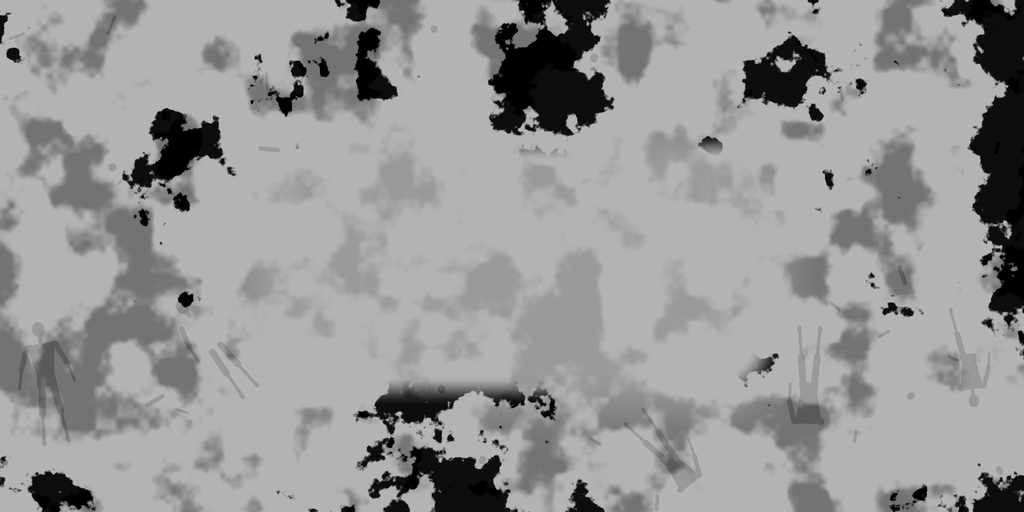
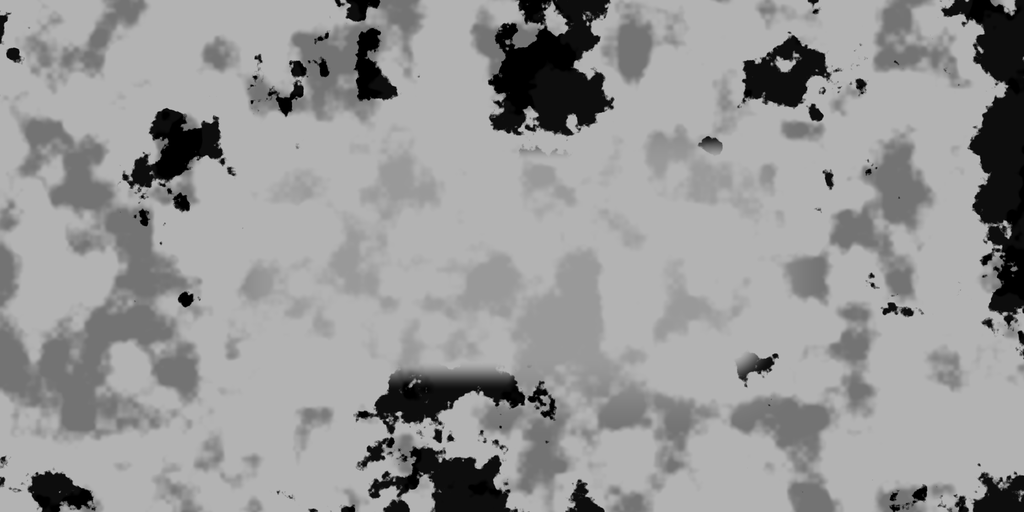
Caves board: petrified statues removed (unconvincing and distracting)

diff --git a/Tools/Boards/recipes/caves.py b/Tools/Boards/recipes/caves.py
@@ -1,5 +1,5 @@
 """The Gorgon's cave: wet limestone floor with rimstone terraces and black puddles that catch the light, green slime
-in the damp, the petrified who met her gaze lying as broken statues. Lanes: damp packed grit
+in the damp (statues and bodies were tried and dropped: they read as unconvincing and distracting). Lanes: damp packed grit
 with shallow puddles."""
 from boardkit import *  # noqa
 
@@ -37,30 +37,6 @@ def paint(preview=False):
     alb = alb * (1 - wet_rim[..., None] * 0.25)
     hgt = (hgt * (1 - pud) + pud * float(np.percentile(hgt, 30))).astype(F32)
 
-    # the petrified: whole statues and broken pieces, pale stone, some fallen apart
-    st = Layer(g)
-    for x, y in scatter_points(rng, 5, (-62, 62, -21, 41), margin_keep(8.0), min_gap=20):
-        whole = rng.random() < 0.5
-        parts = None if whole else set(rng.choice(['head', 'torso', 'larm', 'rarm', 'lleg', 'rleg'], 4, replace=False))
-        figure(st, rng, x, y, rng.uniform(2.2, 2.8), rng.uniform(0, 6.28), parts)
-    for x, y in scatter_points(rng, 24, (-66, 66, -23, 43), margin_keep(3.0), 4.0):
-        k = rng.random()
-        if k < 0.4:
-            st.ellipse(x, y, rng.uniform(0.4, 0.6), rng.uniform(0.45, 0.65), 255, rng.uniform(0, 6.28))   # a head
-        else:
-            a = rng.uniform(0, 6.28)
-            L = rng.uniform(1.2, 2.6)
-            st.line([(x, y), (x + math.cos(a) * L, y + math.sin(a) * L)], rng.uniform(0.35, 0.6))
-    sm_ = st.read()
-    sdome = np.clip(blurf(sm_, 0.18, g) * 1.6, 0, 1) * sm_
-    cracks = smoothstep(0.9, 0.97, n.ridged(X, Y, 0.9, 3, offset=7)) * sm_
-    gy, gx = np.gradient(blurf(sdome, 0.05, g))
-    lit = np.clip(0.5 + (-gx + gy) * g.ppu * 0.8, 0, 1)
-    scol = lerp(C(0.2, 0.2, 0.19), C(0.5, 0.5, 0.47), np.clip(lit * 0.7 + 0.3 * n.fbm(X, Y, 0.4, 3, offset=8), 0, 1))
-    scol = lerp(scol, C(0.12, 0.16, 0.1), smoothstep(0.62, 0.8, n.fbm(X, Y, 0.8, 3, offset=9)) * 0.5)   # moss creeping
-    scol = lerp(scol, scol * 0.4, cracks)
-    alb, hgt = apply_object(g, alb, hgt, sm_, sdome * 0.6 - cracks * 0.05, scol, shadow=0.6, shadow_blur=0.3)
-
     # loose rubble
     rub = [(x, y, rng.uniform(0.12, 0.5)) for x, y in scatter_points(rng, 400, (-66, 66, -23, 43), margin_keep(0.8), 0.6)]
     rm, rh, rc = rocks(g, n, rng, rub, base=C(0.08, 0.085, 0.08), light=C(0.26, 0.27, 0.25))
@@ -68,7 +44,7 @@ def paint(preview=False):
 
     cav = cavity(hgt, g, 0.6, 2.5)
     alb = desaturate(alb * (1 - cav[..., None] * 0.5), 0.05)
-    smooth = 0.3 + damp * 0.25 + pud * 0.65 + sm_ * 0.1
+    smooth = 0.3 + damp * 0.25 + pud * 0.65
 
     # lanes: damp packed grit
     LX, LY = lane.WX, lane.WY
